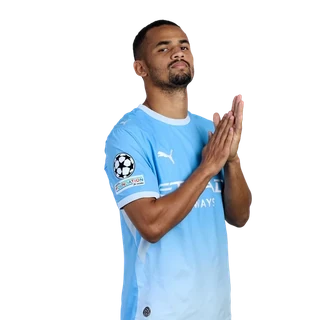
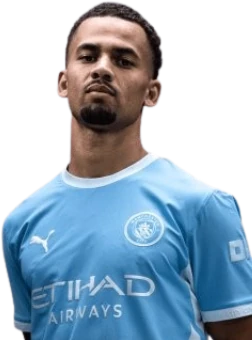
Replace eleven player portraits

diff --git a/app.js b/app.js
@@ -90,7 +90,7 @@ const PLAYER_PHOTOS={
  "Kaká":"kaka","Zinedine Zidane":"zinedine-zidane","Luís Figo":"luis-figo","Luis Figo":"luis-figo","Hernán Crespo":"hernan-crespo","Christian Vieri":"christian-vieri","Denílson":"denilson","Ronaldo":"ronaldo-brazil","Alan Shearer":"alan-shearer","Gianluigi Lentini":"gianluca-lentini","Gianluca Lentini":"gianluca-lentini","Gianluca Vialli":"gianluca-vialli","Jean-Pierre Papin":"jean-pierre-papin","Roberto Baggio":"roberto-baggio","Ruud Gullit":"ruud-gullit","Diego Maradona":"maradona-1982",
  "Julián Álvarez":"julian-alvarez","Julian Álvarez":"julian-alvarez","Kai Havertz":"kai-havertz","Kevin De Bruyne":"kevin-de-bruyne","Luis Suárez":"luis-suarez","Luís Suárez":"luis-suarez","Hulk":"hulk","Fernando Torres":"fernando-torres-2007","David Villa":"david-villa","Robinho":"robinho","Andriy Shevchenko":"andriy-shevchenko","Michael Essien":"michael-essien","Wayne Rooney":"wayne-rooney","David Beckham":"david-beckham","Rio Ferdinand":"rio-ferdinand"
 };
-function playerPortrait(name,override){const photo=override||PLAYER_PHOTOS[name];return photo?'<img class="avatar player-photo" src="assets/player-photos/'+photo+'.webp?v=player-portraits-20261104e" alt="" aria-hidden="true" loading="lazy">':''}
+function playerPortrait(name,override){const photo=override||PLAYER_PHOTOS[name];return photo?'<img class="avatar player-photo" src="assets/player-photos/'+photo+'.webp?v=player-portraits-20261104f" alt="" aria-hidden="true" loading="lazy">':''}
 function recordPortrait(r){if(r[1]==="Diego Maradona")return r[0]==="1984"?"maradona-1984":"maradona-1982";return PLAYER_PHOTOS[r[1]]}
 function yearPortrait(r){if(r[1]==="Fernando Torres")return r[0]==="2011"?"fernando-torres-2011":"fernando-torres-2007";return PLAYER_PHOTOS[r[1]]}
 function avatar(name,col){

diff --git a/index.html b/index.html
@@ -18,7 +18,7 @@
 <script src="standings.js" defer></script>
 <script src="extra.js" defer></script>
 <script src="profiles.js" defer></script>
-<script src="app.js?v=value-row-20261104" defer></script>
+<script src="app.js?v=player-portraits-20261104f" defer></script>
 </head>
 <body>
 <nav class="top" aria-label="Pages">
